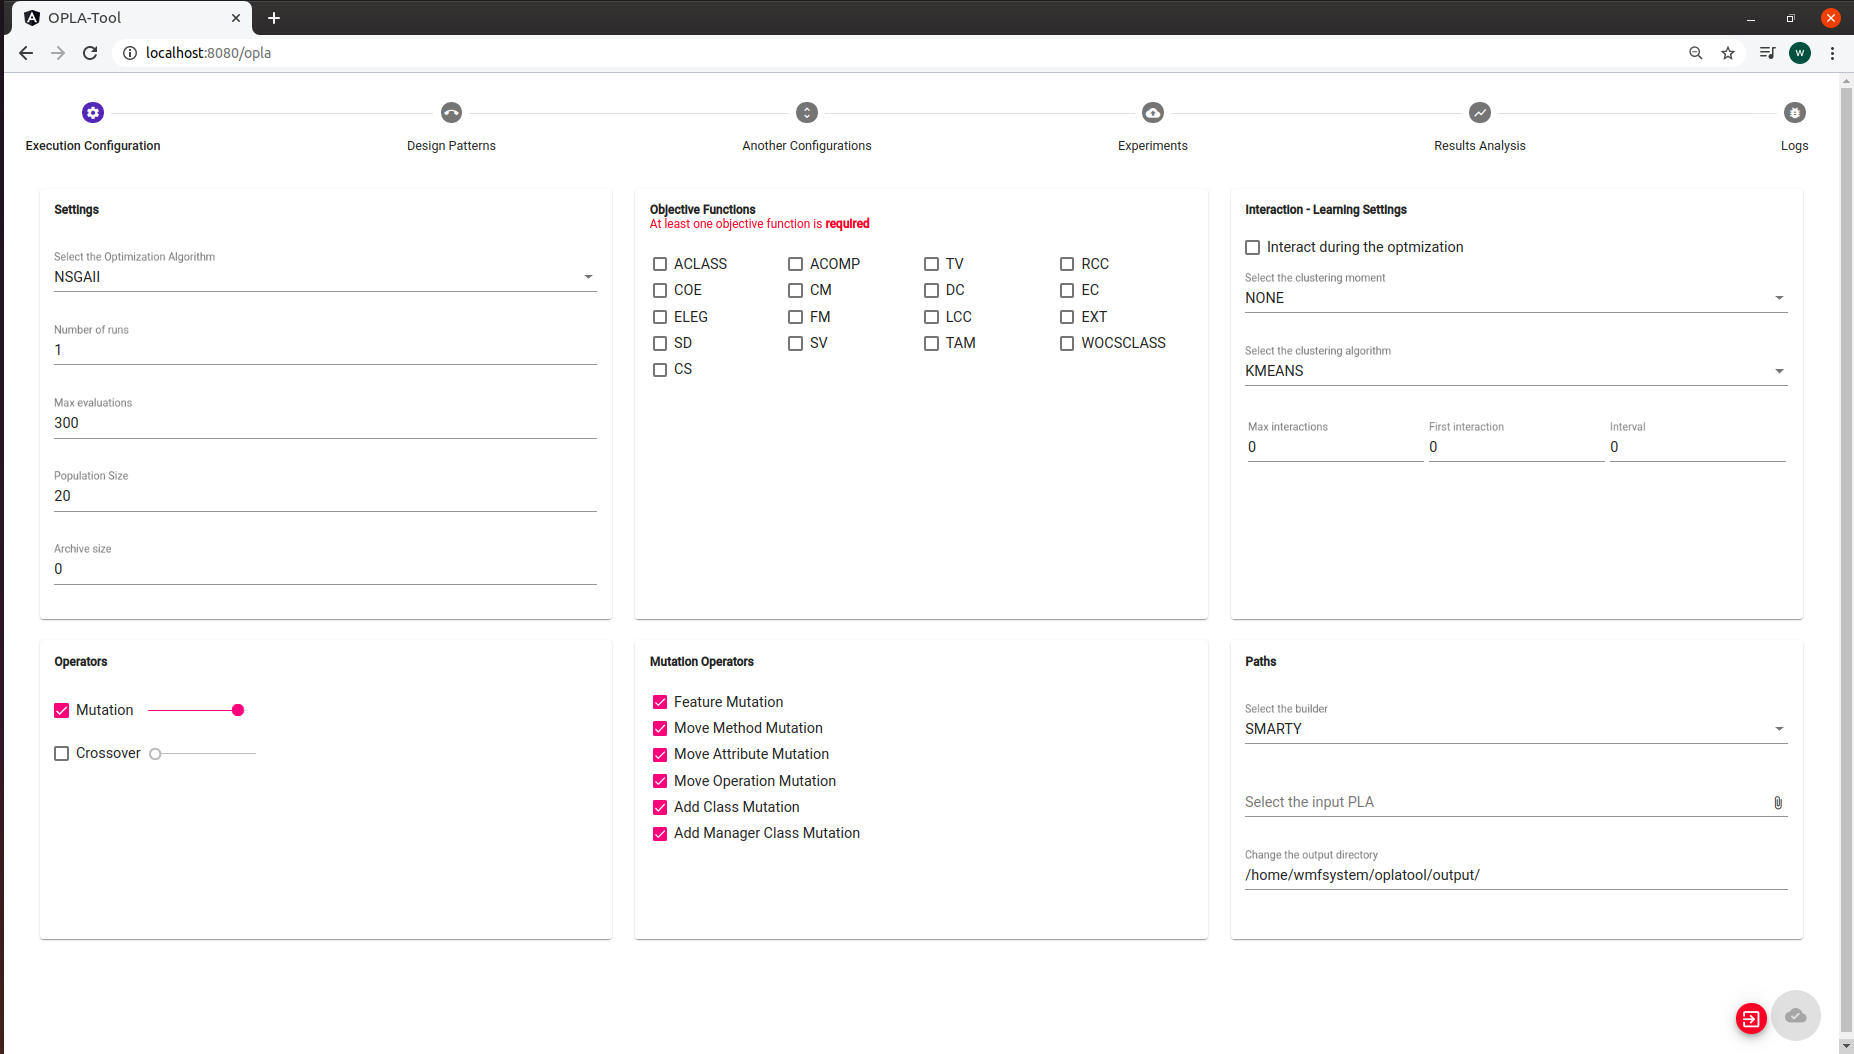
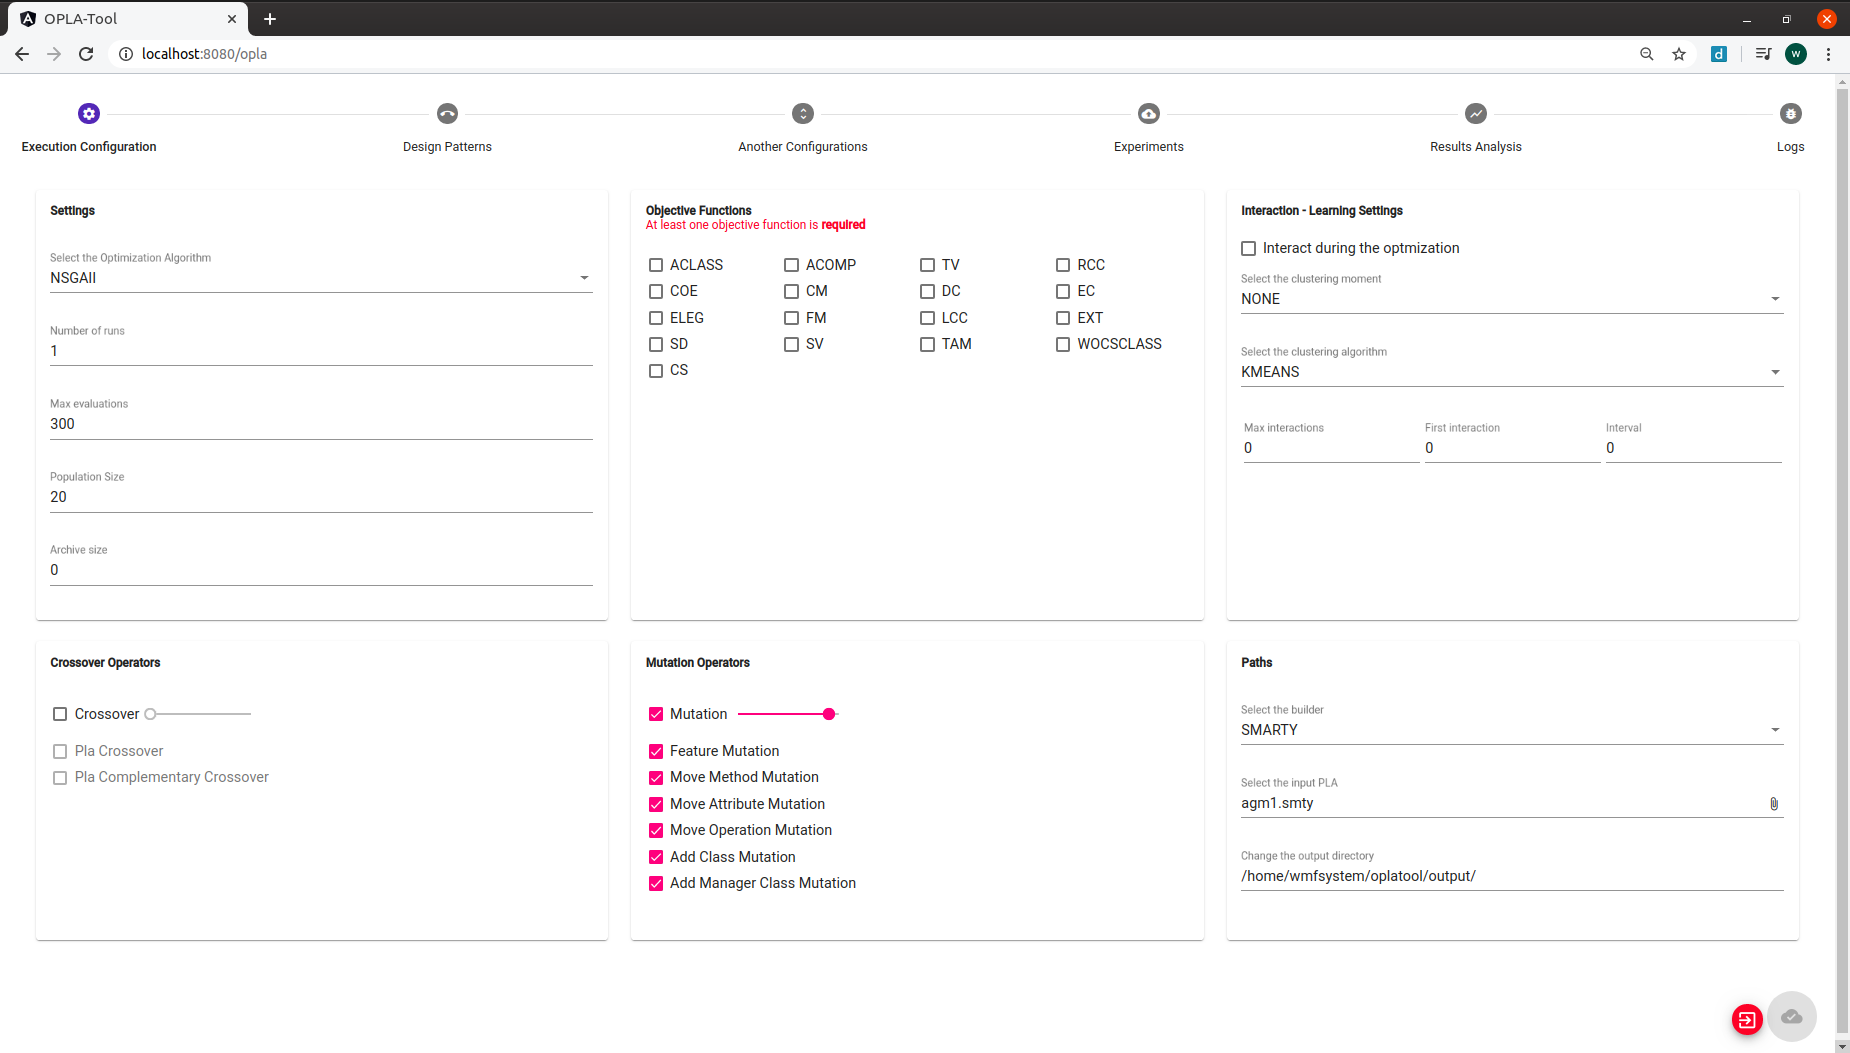
docs

diff --git a/USAGE.md b/USAGE.md
@@ -32,12 +32,12 @@ If you desire to interact during the optimization process, you can enable it in 
 In Additional Information Section, an example is presented.
 
 ![Step 3-3](https://raw.githubusercontent.com/SBSE-UEM/OPLA-Tool/willian/docs/usage/step-3-3.png)
-#### Step 3.4: Mutation and crossover probability
-If it will be used the mutation and crossover operators, it is necessary to select the options in this card.
+#### Step 3.4: Crossover operators
+These are the crossover operators present in the tool. By default, no one is selected. 
 
 ![Step 3-4](https://raw.githubusercontent.com/SBSE-UEM/OPLA-Tool/willian/docs/usage/step-3-4.png)
 #### Step 3.5: Mutation operators
-These are the mutation operators present in the tool, generally by default, all are selected. 
+These are the mutation operators present in the tool. By default, all of them are selected. 
 
 ![Step 3-5](https://raw.githubusercontent.com/SBSE-UEM/OPLA-Tool/willian/docs/usage/step-3-5.png)
 #### Step 3.6: Design patterns

diff --git a/README.md b/README.md
@@ -145,7 +145,7 @@ public enum ObjectiveFunctions implements ObjectiveFunctionsLink {
 
 ### Implementing a new Optimization Algorithm
 - [\<Click here to see the implemented Optimization algorithms\>](https://otimizes.github.io/OPLA-Tool/docs/br/ufpr/dinf/gres/api/gateway/OptimizationAlgorithms.html)
-- Put your metaheuristic in jmetal4 > metaheuristics > myoptalgpackage
+- Put your metaheuristic in jmetal4 > metaheuristics > youralgorithmpackage
 - Observe how was implemented the existent algorithms, following the current steps 
 - Create your config in [jmetal4 > experiments > base](https://otimizes.github.io/OPLA-Tool/docs/br/ufpr/dinf/gres/core/jmetal4/experiments/base/package-summary.html) inheriting the ExperimentCommonConfigs
 - Use the name of optimization algorithm config with the posfix Configs, ex: MyOptAlgConfigs
